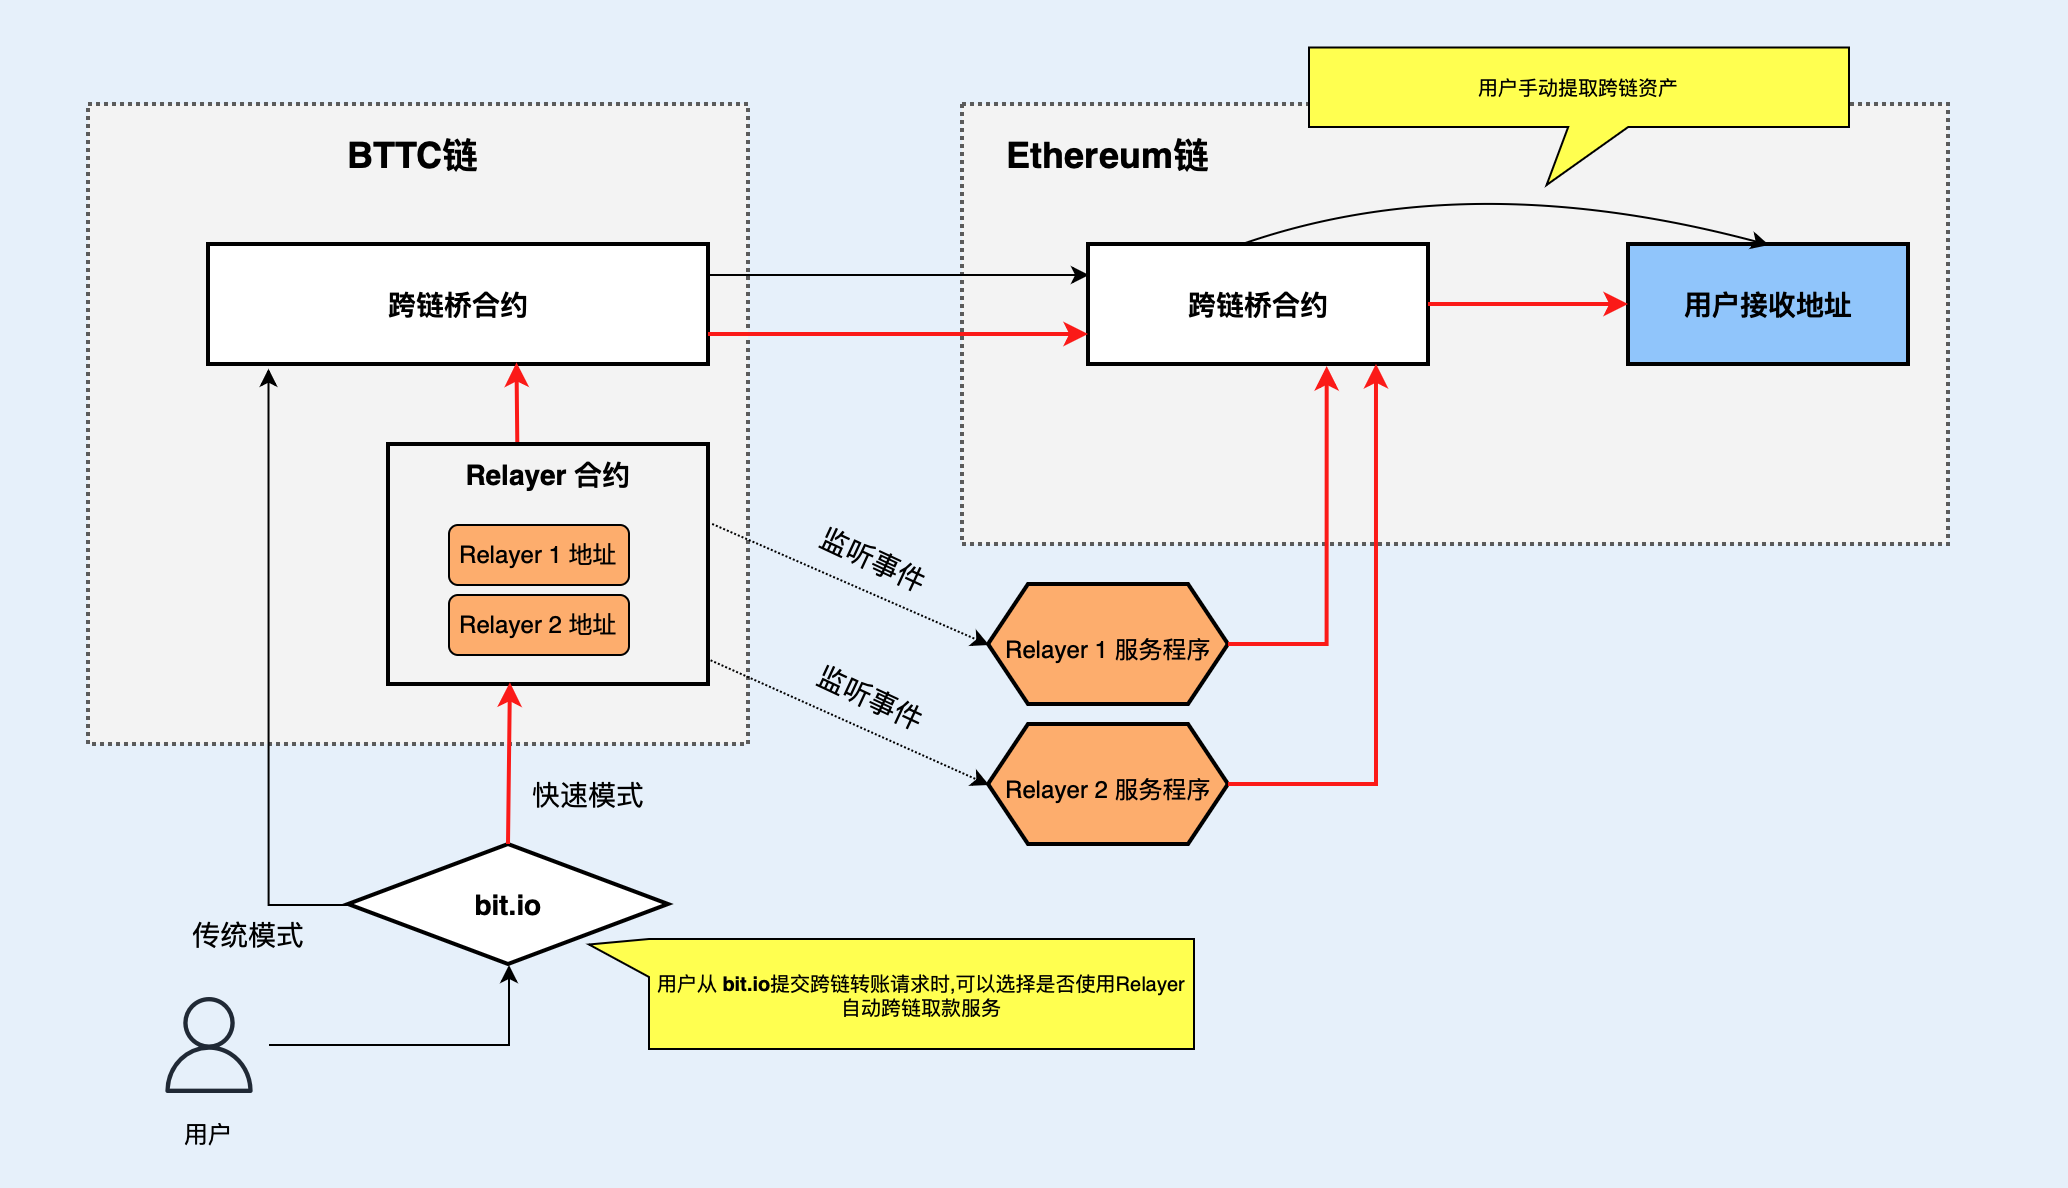
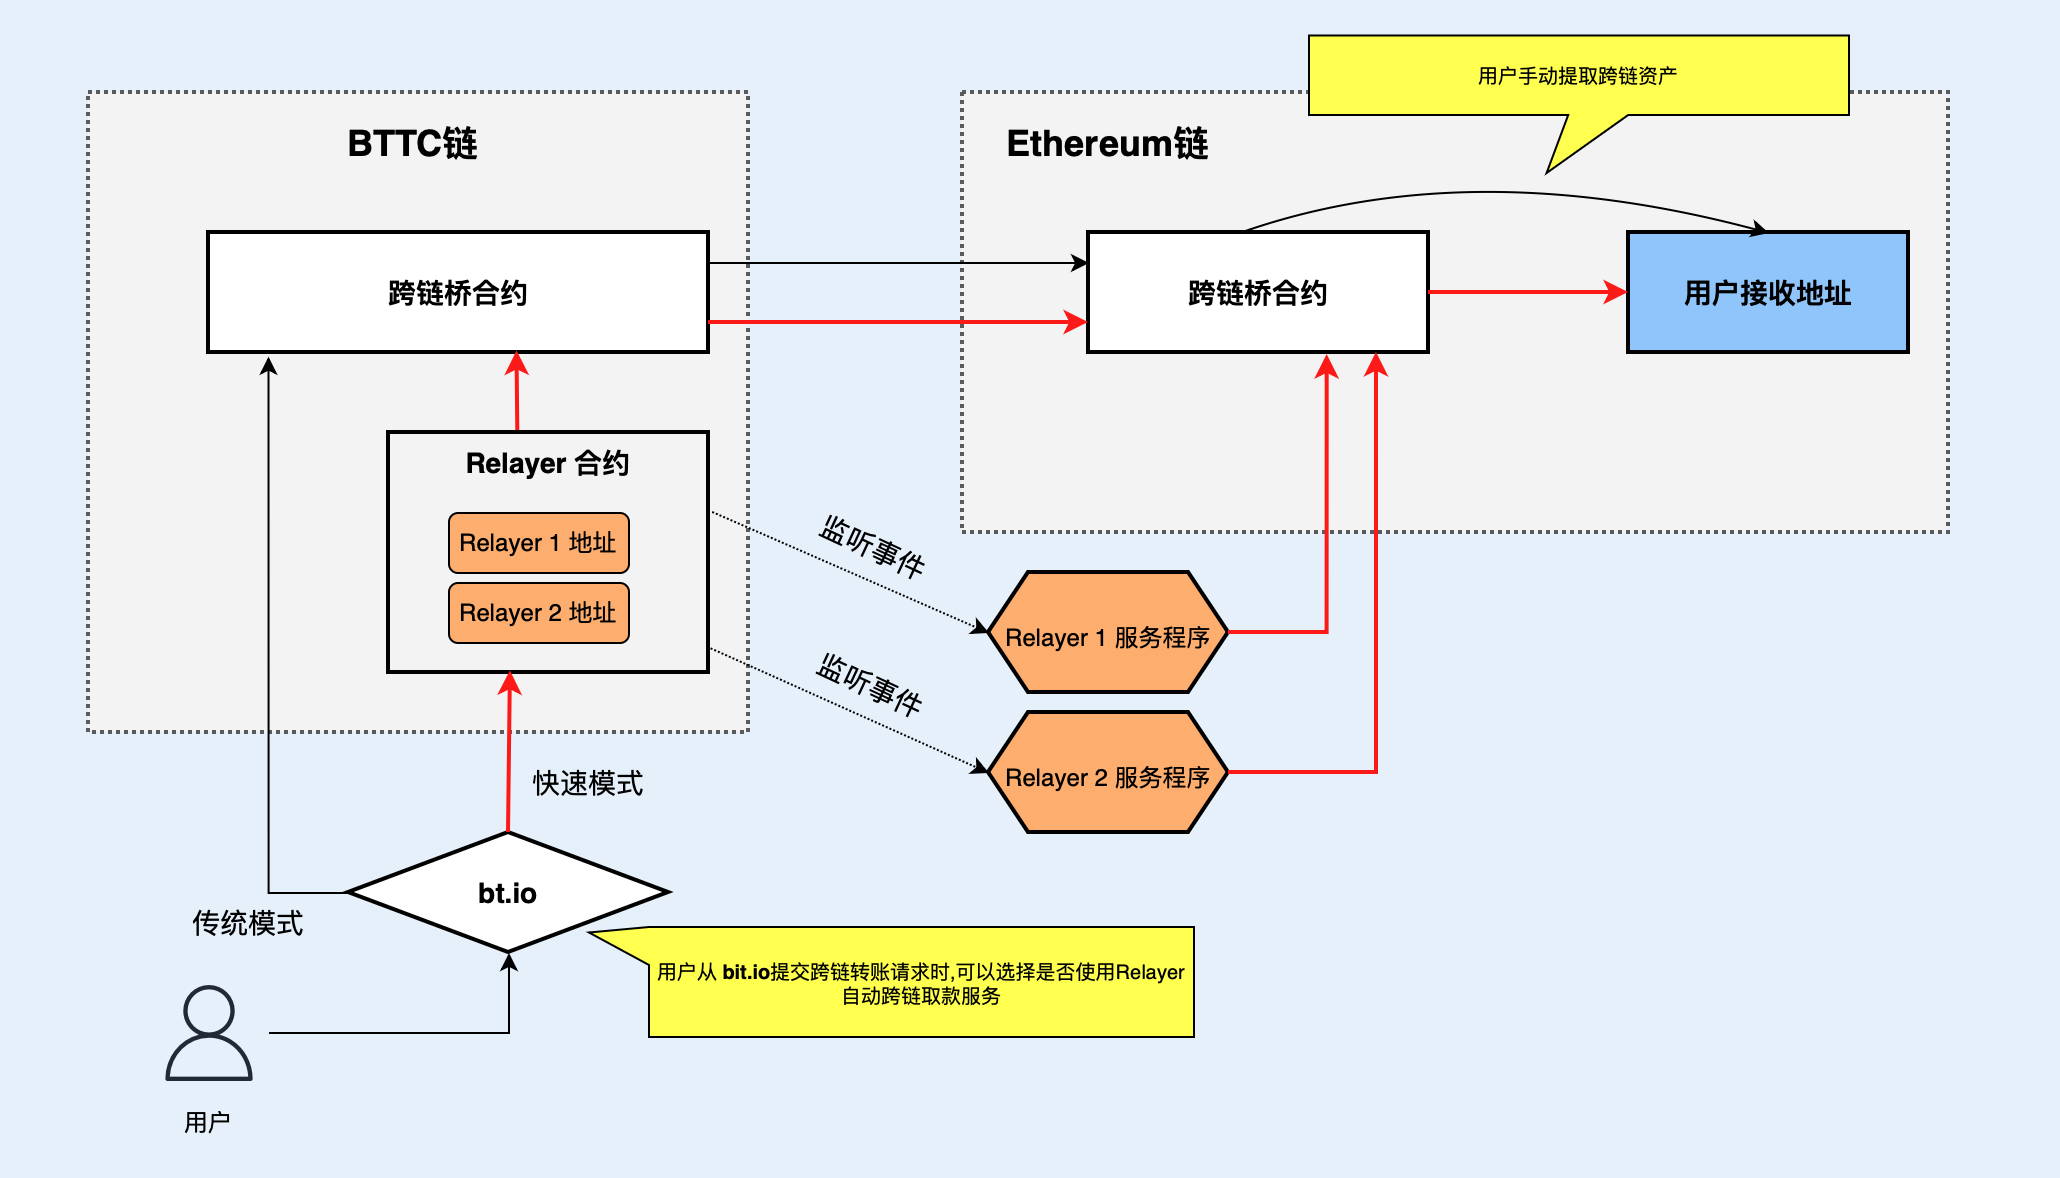
feat(bridge): update relayer page
1. change bit.io to bt.io
2. change fee ratio from 0.9 to 1.2

diff --git a/docs/bridge/relayer.md b/docs/bridge/relayer.md
@@ -10,19 +10,20 @@ The mechanism of Relayer is shown as follows:
 
 ![](../../static/img/relayer-en.png)
 
-As shown in the figure above, when users submit an asset cross-chain transfer request from BTTC to Ethereum on [bit.io](https://bt.io), they can select Fast mode or Classic mode. If they select Classic mode,meaning not using Relayer service, [bit.io](https://bt.io) will directly call the cross-chain `Bridge Contract` to execute cross-chain operations, after assets reach the cross-chain `Bridge Contract` on Ethereum chain, users need to manually call the cross-chain `Bridge Contract` to withdraw the asset to the `Receiver Address`.
+
+As shown in the figure above, when users submit an asset cross-chain transfer request from BTTC to Ethereum on [bt.io](https://bt.io), they can select Fast mode or Classic mode. If they select Classic mode,meaning not using Relayer service, [bt.io](https://bt.io) will directly call the cross-chain `Bridge Contract` to execute cross-chain operations, after assets reach the cross-chain `Bridge Contract` on Ethereum chain, users need to manually call the cross-chain `Bridge Contract` to withdraw the asset to the `Receiver Address`.
 
 If the users select Fast mode, meaning using Relayer service, the users can select an appropriate Relayer provider according to the fee quotation, then the cross-chain asset will be first transferred to Relayer contract, the Relayer contract will divide the asset, transfer one part of the cross-chain asset to the Relayer provider as service fee, and then call the `Bridge Contract` to transfer the remaining part to `Bridge Contract` for cross-chain operation.
 
 Since the users have appointed the `Receiver Address` when submitting the cross-chain request on BTTC chain, the `Receiver Address` will be included in the cross-chain message to reach Ethereum together, anybody can call the `Bridge Contract` to extract the assets, but assets can only be transferred to the `Receiver Address` in the message. After the Relayer submit the cross-chain request, the service program deployed by Relayer provider will listen to the cross-chain event, when the assets reach Ethereum chain, the Relayer service program will automatically call the cross-chain contract on Ethereum by an external account to withdraw the assets to the `Receiver Address`, and meanwhile pay the gas fee by this external account. 
 # Relayer Service Fee
-In order to attract more users to try this Relayer service, now the Relayer service only charges 90% of the original cross-chain transfer gas fee, the other 10% is borne by the Relayer service, the Relayer service deducts part of users' cross-chain assets as service fee, the actual deduction amount is calculated as follows:
+Now the Relayer service charges 120% of the original cross-chain transfer gas fee, the Relayer service deducts part of users' cross-chain assets as service fee, the actual deduction amount is calculated as follows:
 
 ```
- (cross-chain gas fee / cross-chain token unit price) * 90% 
+ (cross-chain gas fee / cross-chain token unit price) * 120% 
 ```
 
 Relayer service will charge the current cross-chain tokens, that is, what kind of cross-chain token is transferred and what kind of token is charged, when calculating the service fee, the gas fee and cross-chain service fee will be converted into the same price unit for calculation.
 
-In the future, [bit.io](https://bt.io) will open the Relayer provider application channel, anyone can apply to become a Relayer provider, the Relayer provider will set the service reasonable fees according to its own operating costs and the consumed gas fee between different block chains. Users will choose a Relayer provider based on factors such as the service fee, service stability and user evaluation etc.
+In the future, [bt.io](https://bt.io) will open the Relayer provider application channel, anyone can apply to become a Relayer provider, the Relayer provider will set the service reasonable fees according to its own operating costs and the consumed gas fee between different block chains. Users will choose a Relayer provider based on factors such as the service fee, service stability and user evaluation etc.
 

diff --git a/i18n/zh-Hans/docusaurus-plugin-content-docs/current/bridge/relayer.md b/i18n/zh-Hans/docusaurus-plugin-content-docs/current/bridge/relayer.md
@@ -7,13 +7,14 @@ Relayer 是 BTTC 上资产跨链后的自动提款服务，用户将资产从 BT
 # Relayer 的原理
 下图是 Relayer 工作机制：
 
-
 ![](../../static/img/relayer-cn.png)
 
 
 
 
-如上图所示，用户在 [bit.io](https://bt.io) 上提交 BTTC 到 Ethereum 的资产跨链请求时， 可以选择 Fast 模式或 Classic 模式，如果选择 Classic 模式，即不使用 Relayer 服务，[bit.io](https://bt.io) 会直接调用`跨链桥合约`执行跨链操作，当资产达到Ethereum链的`跨链桥合约`时，需要用户手动调用`跨链桥合约`将资产提到`用户接收地址`中。
+
+
+如上图所示，用户在 [bt.io](https://bt.io) 上提交 BTTC 到 Ethereum 的资产跨链请求时， 可以选择 Fast 模式或 Classic 模式，如果选择 Classic 模式，即不使用 Relayer 服务，[bt.io](https://bt.io) 会直接调用`跨链桥合约`执行跨链操作，当资产达到Ethereum链的`跨链桥合约`时，需要用户手动调用`跨链桥合约`将资产提到`用户接收地址`中。
 
 如果用户选择了 Fast 模式，即使用 Relayer 服务，用户可以根据 Relayer 服务商的费用报价选择一个合适的服务商，用户跨链资产首先被转移给 Relayer 合约，Relayer 合约对资产进行切分，从跨链资产转移一部分给 Relayer 服务商作为费用报酬，然后将剩余部分提交给`跨链桥合约`进行跨链操作。
 
@@ -21,15 +22,15 @@ Relayer 是 BTTC 上资产跨链后的自动提款服务，用户将资产从 BT
 由于用户在 BTTC 链上提交跨链请求时指定了`用户接收地址`，该`用户接收地址`会被包含在跨链消息中一起到达 Ethereum 链，任何人都可以调用`跨链桥合约`触发提取资产行为，但是资产只会被提取到跨链消息中指定的`用户接收地址`。当 Relayer 合约提交跨链请求后，Relayer 服务商部署的服务程序会监听到跨链事件，当资产到达 Ethereum 链后，Relayer 服务程序会自动通过它的一个外部地址调用 Ethereum 链上的跨链合约将资产提取到接收者地址，并通过该外部地址支付 Gas 费用。
 
 # Relayer 费用
-为了吸引更多的用户使用 Relayer 服务，目前的 Relayer 服务只收取实际提款 Gas 费90%，另外10%由 Relayer 服务承担，Relayer 会从用户跨链的资产中扣除部分作为费用，实际扣除数量的计算公式如下：
+目前的 Relayer 服务收取实际提款 Gas 费120%，Relayer 会从用户跨链的资产中扣除部分作为费用，实际扣除数量的计算公式如下：
 
 ```
-（跨链消耗的 Gas 费用 / 跨链代币的单价）* 90%
+（跨链消耗的 Gas 费用 / 跨链代币的单价）* 120%
 ```
 
 Relayer 从当前跨链的代币中扣除部分作为手续费，即跨什么币，收什么币, 计算费用时会将上述 Gas 费用和跨链代币转化成同一个记价单位进行计算。 
 
-未来 [bit.io](https://bt.io) 将开启 Relayer 申请通道， 任何人都可以申请成为 Relayer 服务商，Relayer 服务商会根据自己的运营成本和不同目标链的提款 Gas 消耗来设定合理的费用。用户会根据费用、服务稳定性、用户评价等因素选择一个 Relayer 服务商。
+未来 [bt.io](https://bt.io) 将开启 Relayer 申请通道， 任何人都可以申请成为 Relayer 服务商，Relayer 服务商会根据自己的运营成本和不同目标链的提款 Gas 消耗来设定合理的费用。用户会根据费用、服务稳定性、用户评价等因素选择一个 Relayer 服务商。
 
 
 
